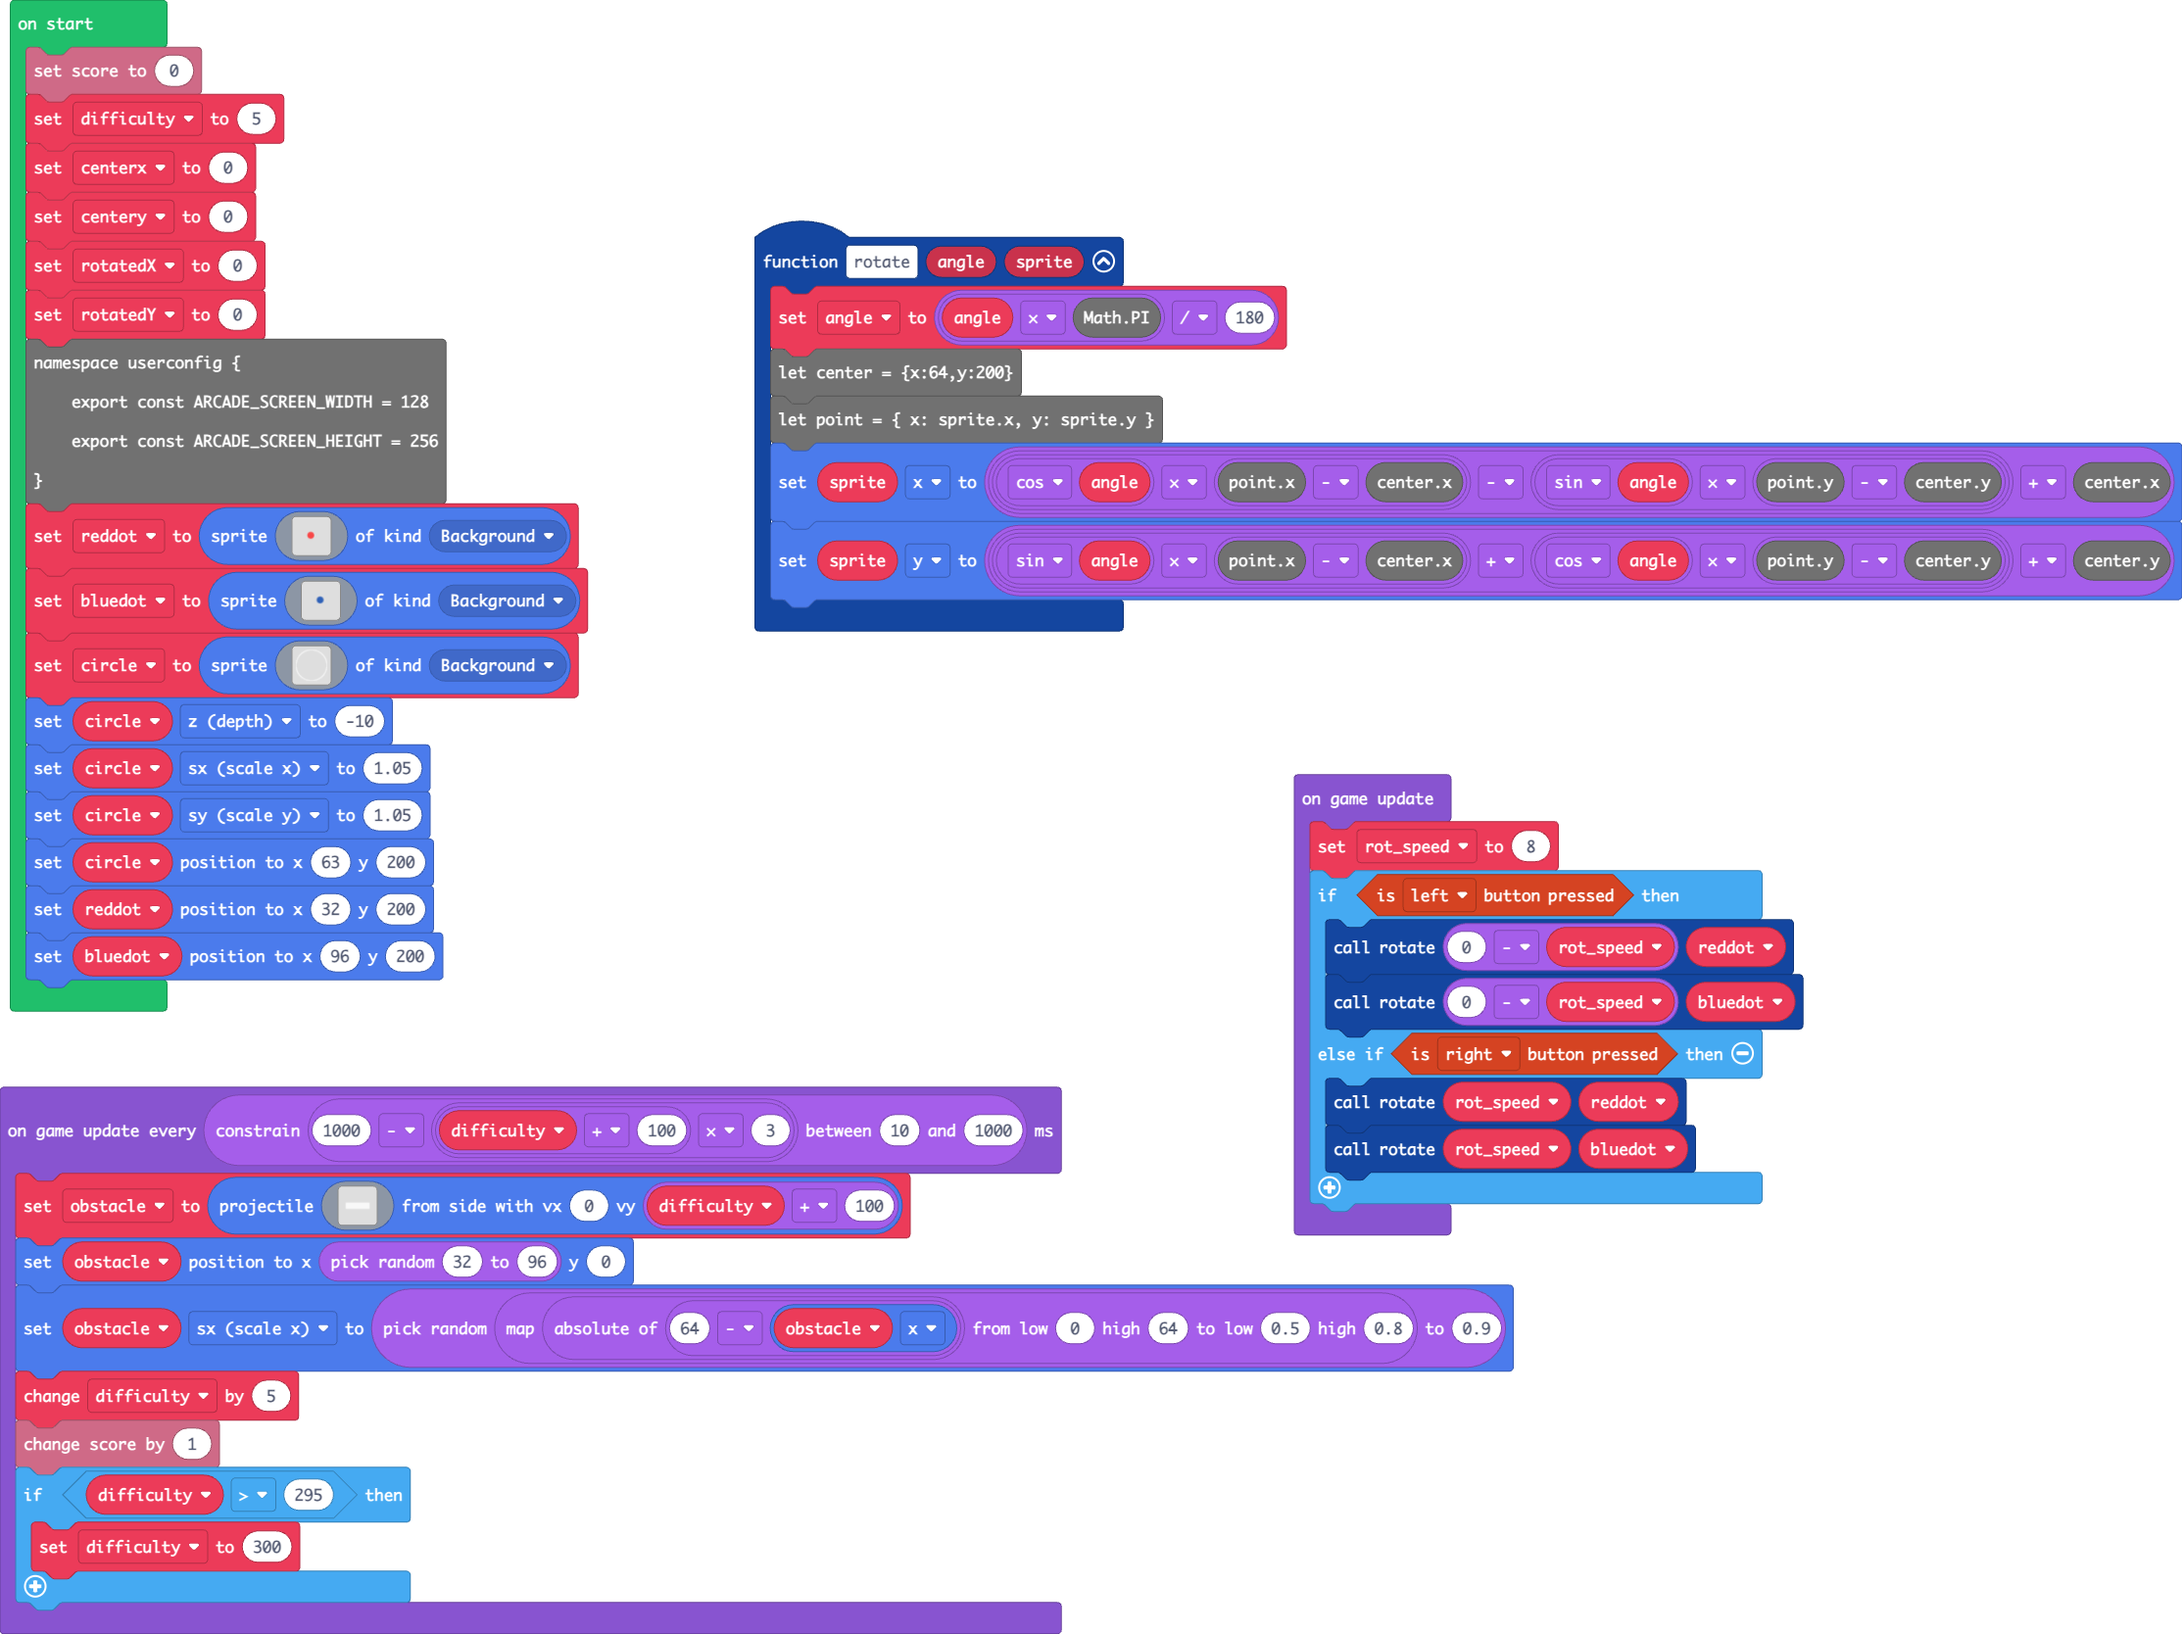
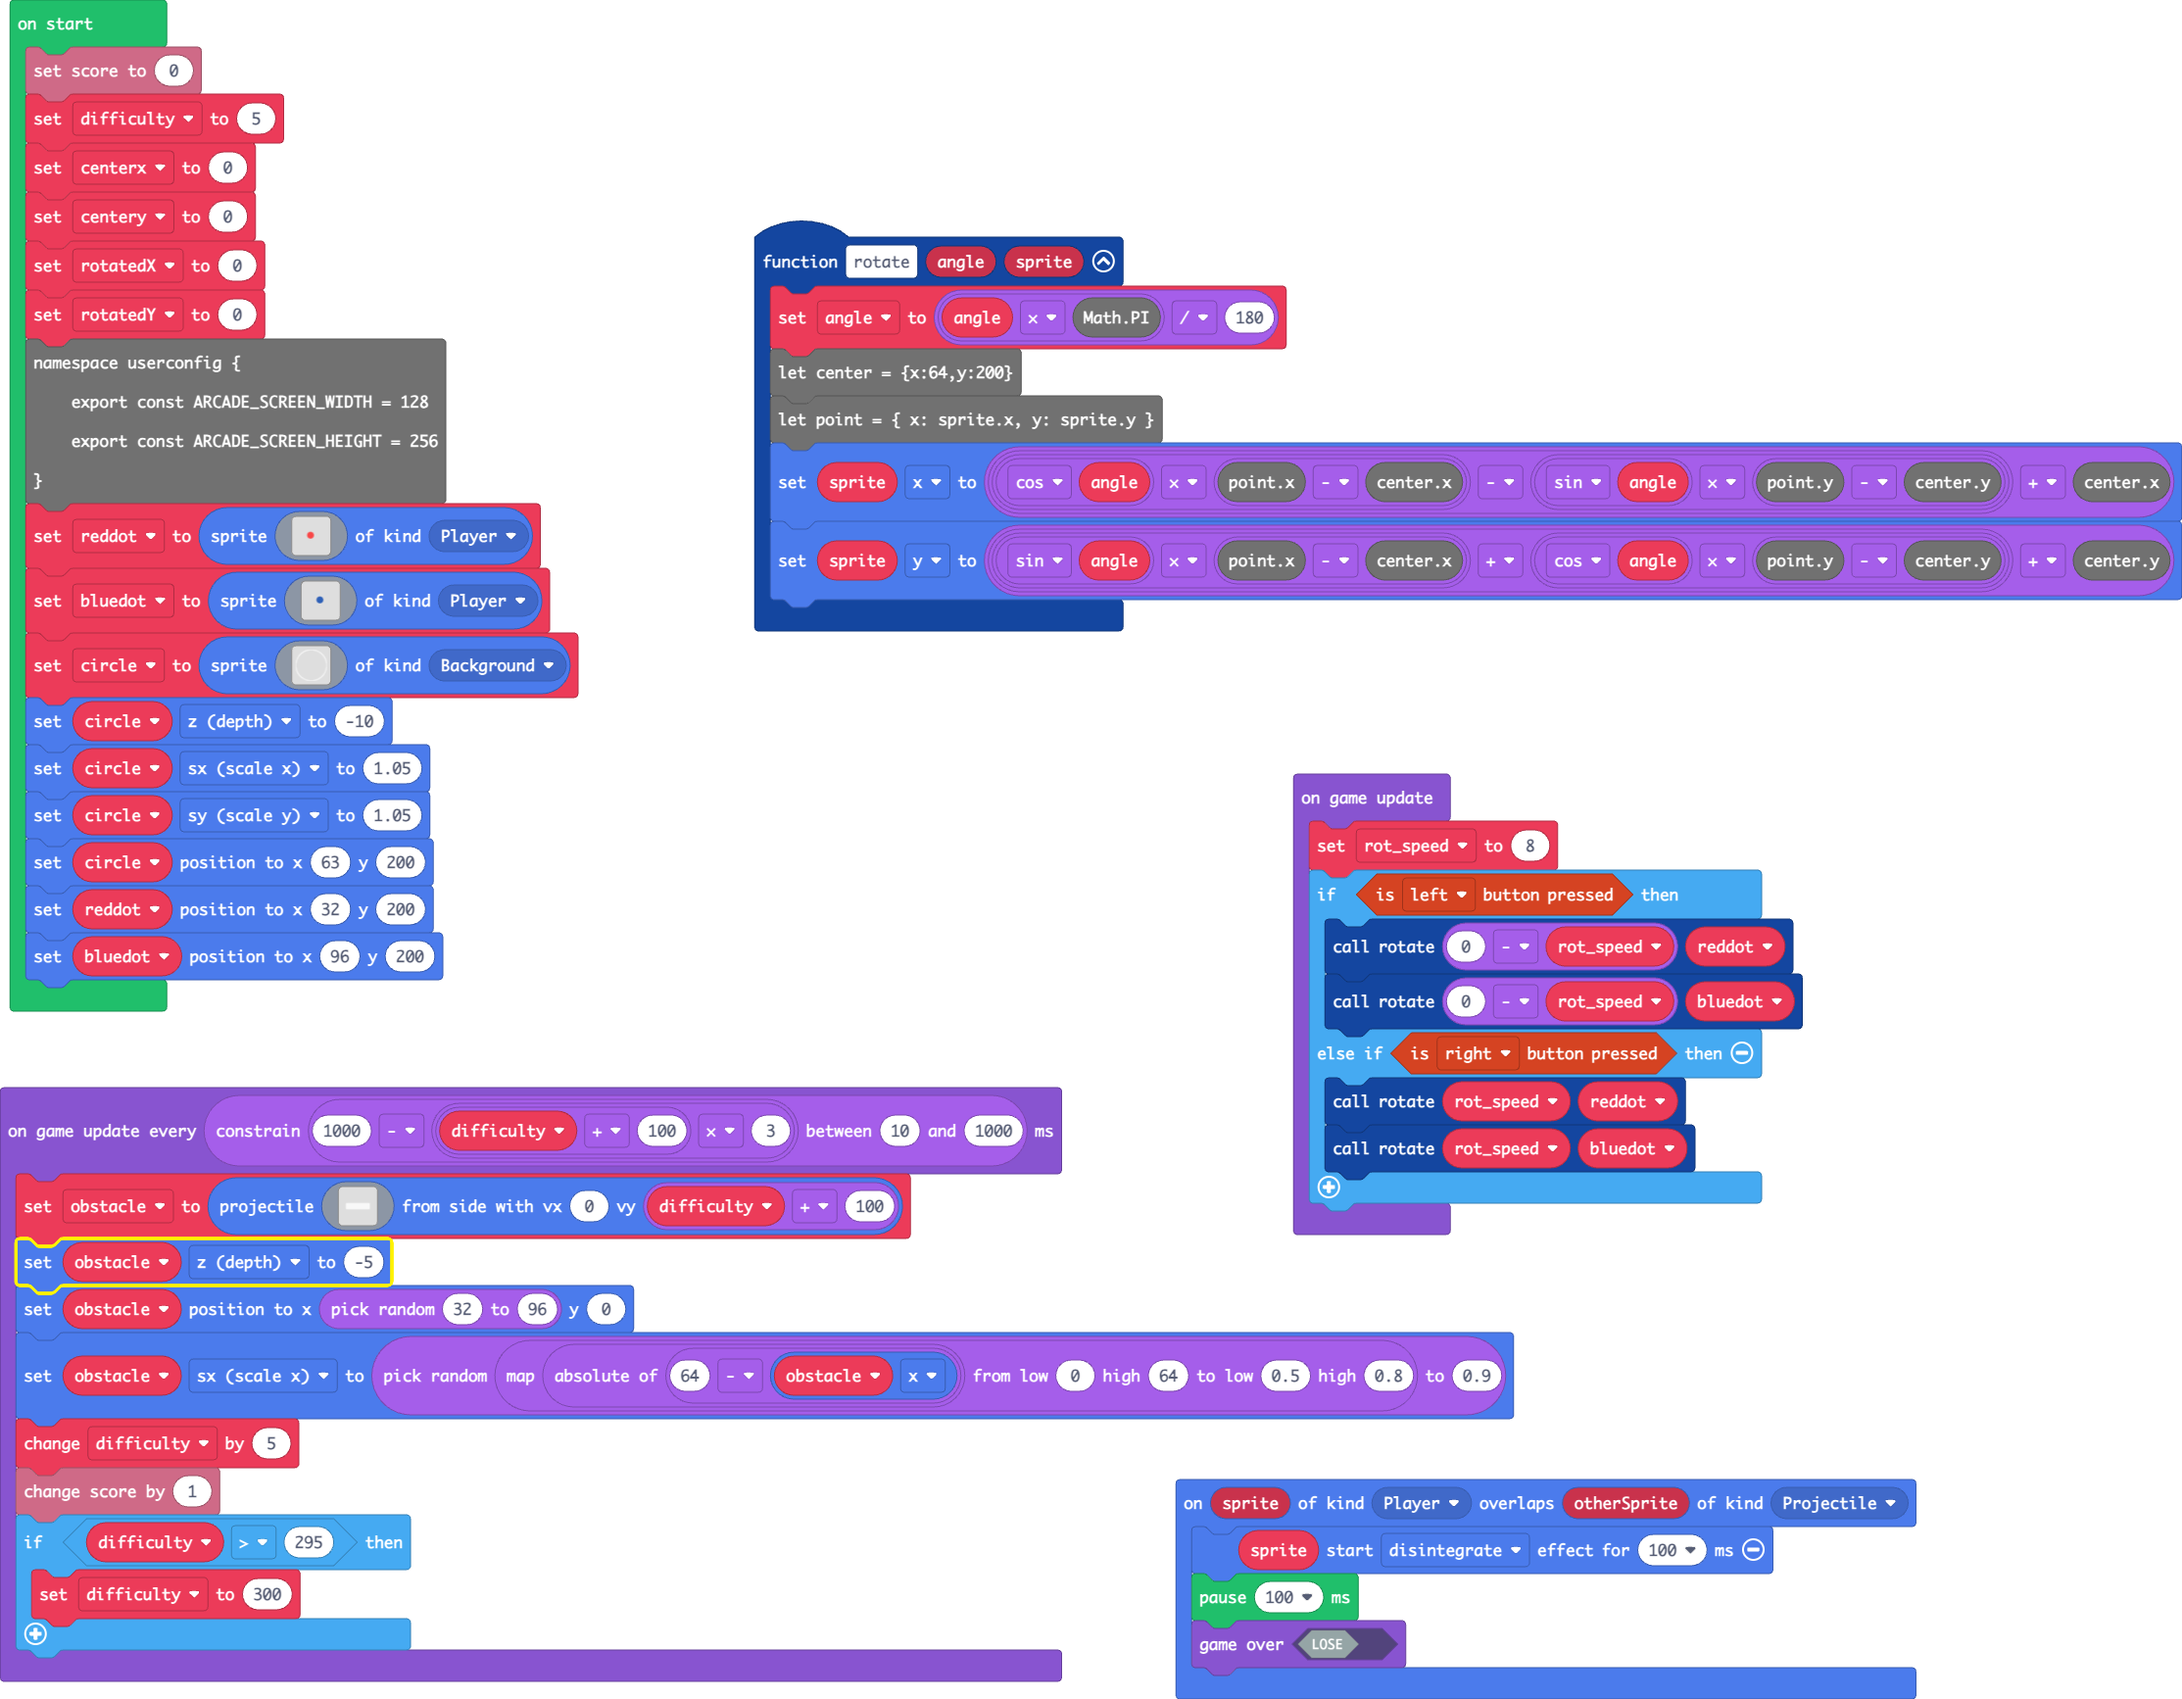
handle collisions & death

Changed region(s): [[0.0, 0.0, 0.8366, 1.0], [0.3408, 0.1247, 1.0, 0.4053], [0.5267, 0.8729, 0.8985, 1.0]]

diff --git a/main.ts b/main.ts
@@ -1,6 +1,11 @@
 namespace SpriteKind {
     export const Background = SpriteKind.create()
 }
+sprites.onOverlap(SpriteKind.Player, SpriteKind.Projectile, function (sprite, otherSprite) {
+    sprite.startEffect(effects.disintegrate, 100)
+    pause(100)
+    game.gameOver(false)
+})
 function rotate (angle: number, sprite: Sprite) {
     angle = angle * Math.PI / 180
     let center = {x:64,y:200}
@@ -21,8 +26,8 @@ namespace userconfig {
     export const ARCADE_SCREEN_WIDTH = 128
     export const ARCADE_SCREEN_HEIGHT = 256
 }
-let reddot = sprites.create(assets.image`reddot`, SpriteKind.Background)
-let bluedot = sprites.create(assets.image`bluedot`, SpriteKind.Background)
+let reddot = sprites.create(assets.image`reddot`, SpriteKind.Player)
+let bluedot = sprites.create(assets.image`bluedot`, SpriteKind.Player)
 let circle = sprites.create(assets.image`circle`, SpriteKind.Background)
 circle.z = -10
 circle.sx = 1.05
@@ -32,6 +37,7 @@ reddot.setPosition(32, 200)
 bluedot.setPosition(96, 200)
 game.onUpdateInterval(Math.constrain(1000 - (difficulty + 100) * 3, 10, 1000), function () {
     obstacle = sprites.createProjectileFromSide(assets.image`obstacle`, 0, difficulty + 100)
+    obstacle.z = -5
     obstacle.setPosition(randint(32, 96), 0)
     obstacle.sx = randint(Math.map(Math.abs(64 - obstacle.x), 0, 64, 0.5, 0.8), 0.9)
     difficulty += 5
